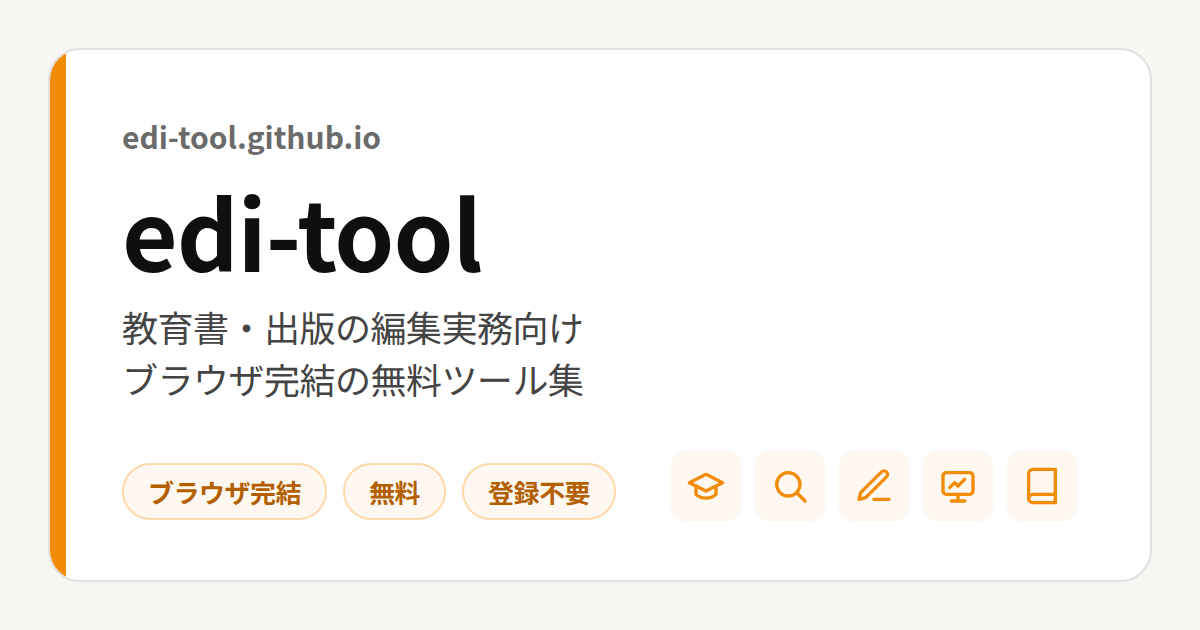
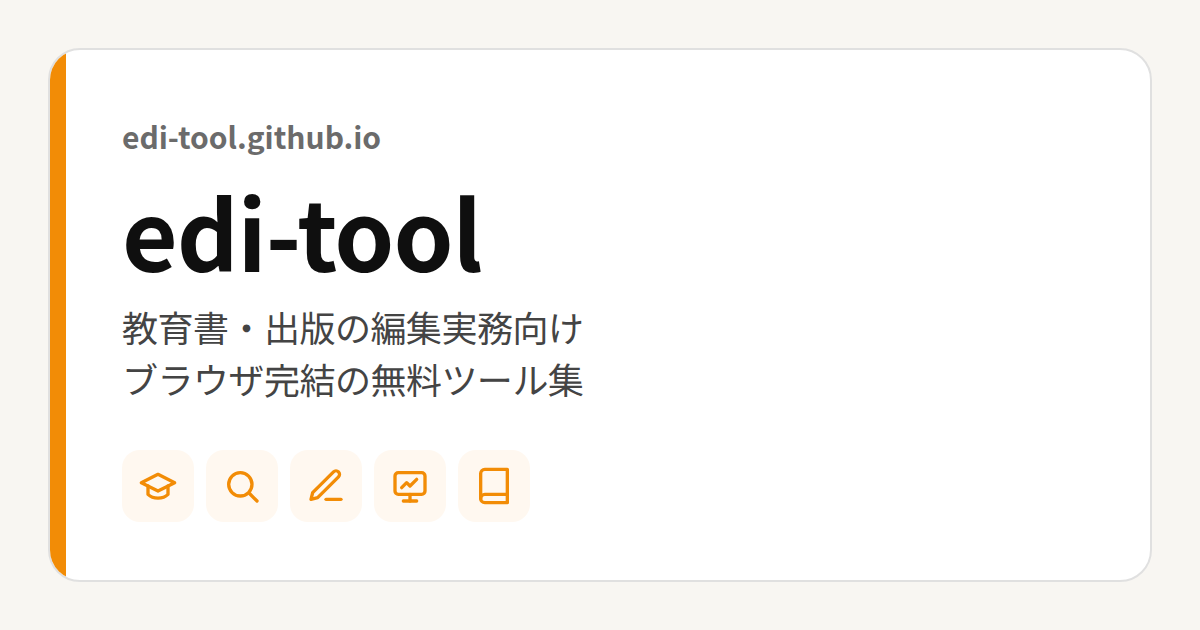
chore: ハブのヘッダーの特長バッジとフッターの GitHub リンクを削除
- 「ブラウザ完結・無料・登録不要」のバッジはかえって胡散臭く見えるため削除（共有用 ogp.png からも削除して再生成）
- フッターの GitHub へのリンクを削除

Claude-Session: https://claude.ai/code/session_01W8L8KDctfs4HhypFX4yjL5

diff --git a/index.html b/index.html
@@ -88,33 +88,6 @@ lang: ja
             color: var(--text-sub);
             margin: 0;
         }
-        /* 3つの特長 */
-        .features {
-            display: flex;
-            flex-wrap: wrap;
-            justify-content: center;
-            gap: 8px;
-            margin: 16px 0 0;
-            padding: 0;
-            list-style: none;
-        }
-        .features li {
-            display: inline-flex;
-            align-items: center;
-            gap: 6px;
-            height: 28px;
-            padding: 0 12px;
-            border-radius: 999px;
-            background-color: var(--surface);
-            border: 1px solid var(--border);
-            font-size: 12px;
-            font-weight: 600;
-        }
-        .features svg {
-            width: 14px;
-            height: 14px;
-            color: var(--accent);
-        }
 
         /* Tool Cards */
         .tool-grid {
@@ -213,8 +186,6 @@ lang: ja
             text-align: center;
             word-break: normal;
         }
-        footer a { color: inherit; }
-        footer a:hover { color: var(--accent-text); }
     </style>
     <script type="application/ld+json">
     {
@@ -233,11 +204,6 @@ lang: ja
         <header>
             <h1>edi-tool</h1>
             <p class="lead">教育書・出版の編集実務向け、ブラウザ完結の無料ツール集。<br>ファイルは外部送信しません。</p>
-            <ul class="features">
-                <li><svg viewBox="0 0 24 24" fill="none" stroke="currentColor" stroke-width="2" stroke-linecap="round" stroke-linejoin="round" aria-hidden="true"><rect x="3" y="11" width="18" height="11" rx="2"></rect><path d="M7 11V7a5 5 0 0 1 10 0v4"></path></svg>ブラウザ完結</li>
-                <li><svg viewBox="0 0 24 24" fill="none" stroke="currentColor" stroke-width="2" stroke-linecap="round" stroke-linejoin="round" aria-hidden="true"><polyline points="20 6 9 17 4 12"></polyline></svg>無料</li>
-                <li><svg viewBox="0 0 24 24" fill="none" stroke="currentColor" stroke-width="2" stroke-linecap="round" stroke-linejoin="round" aria-hidden="true"><polyline points="20 6 9 17 4 12"></polyline></svg>登録不要</li>
-            </ul>
         </header>
 
         <main class="tool-grid">
@@ -290,7 +256,7 @@ lang: ja
     </div>
 
     <footer>
-        <a href="https://github.com/edi-tool">GitHub</a> | &copy; 2026 ISHIKAWA, Natsuki | MIT License
+        &copy; 2026 ISHIKAWA, Natsuki | MIT License
     </footer>
 
 </body>

diff --git a/progress.md b/progress.md
@@ -21,6 +21,11 @@
 - **OGP**: 共有カード用の `ogp.png`（1200×630、Noto Sans JP で生成）を追加し、`og:image` をファビコンから差し替え、`twitter:card` を `summary_large_image` に。
 - **改行**: body の `word-break: break-all` を `normal` + `overflow-wrap: anywhere` に変更。和文は従来どおり1字単位で折り返し、英単語（License、Word 等）は途中で割らない。
 
+## 2026-09-24 セッション（ハブの簡素化）
+
+- ヘッダー下の「ブラウザ完結・無料・登録不要」バッジを削除（かえって胡散臭く見えるため）。共有用 `ogp.png` のバッジも同様に削除して再生成。
+- フッターの GitHub リンクを削除。
+
 ## 残タスク（手動）
 
 - Google Search Console で `https://edi-tool.github.io/` を URLプレフィックスで登録・検証し、
